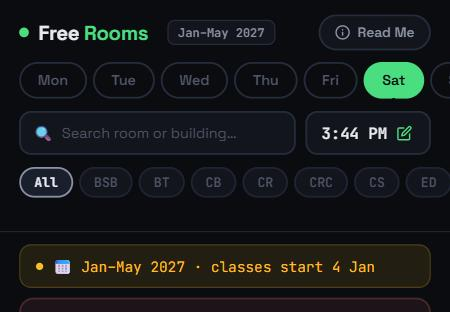
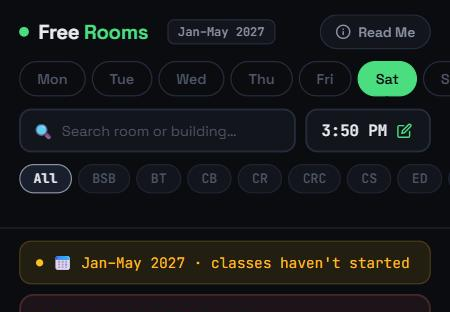
Don't show an exact date in the semester notice
Before the semester starts, the notice now reads "Jan–May 2027 · classes
haven't started" instead of naming the start day. Example dates in the
script usage and docs are replaced with YYYY-MM-DD placeholders.

diff --git a/index.html b/index.html
@@ -1839,8 +1839,7 @@
       const today = `${n.getFullYear()}-${String(n.getMonth() + 1).padStart(2, '0')}-${String(n.getDate()).padStart(2, '0')}`;
       let txt = '';
       if (today < SEMESTER.starts) {
-        const d = new Date(SEMESTER.starts + 'T00:00').toLocaleDateString('en-GB', { day: 'numeric', month: 'short' });
-        txt = `📅 ${SEMESTER.name} · classes start ${d}`;
+        txt = `📅 ${SEMESTER.name} · classes haven't started`;
       } else if (today > SEMESTER.ends) {
         txt = `⚠ ${SEMESTER.name} is over · may be wrong`;
       }

diff --git a/scripts/build_timetable.py b/scripts/build_timetable.py
@@ -2,7 +2,7 @@
 
 Usage (from the repo root):
     python scripts/build_timetable.py "Downloads/SlotWise_SubjectWise List__2026-11-21.xlsx" \
-        --semester "Jan–May 2027" [--starts 2027-01-04 --ends 2027-05-07]
+        --semester "Jan–May 2027" [--starts YYYY-MM-DD --ends YYYY-MM-DD]
 
 --semester is the name shown in the app. With --starts/--ends the app also
 warns when today is outside the semester. --fill-from (below) is optional.

diff --git a/docs/jan-may-2027/design.md b/docs/jan-may-2027/design.md
@@ -11,7 +11,7 @@ New command-line options:
 
 ```
 python scripts/build_timetable.py "Downloads/SlotWise_SubjectWise List__2026-11-21.xlsx" \
-    --semester "Jan–May 2027" --starts 2027-01-02 --ends 2027-05-07
+    --semester "Jan–May 2027" --starts YYYY-MM-DD --ends YYYY-MM-DD
 ```
 
 (The dates are placeholders until you confirm the academic calendar, spec Q2.)
@@ -20,7 +20,7 @@ They're stored at the top of `timetable.json`:
 
 ```json
 {
-  "semester": {"name": "Jan–May 2027", "starts": "2027-01-02", "ends": "2027-05-07"},
+  "semester": {"name": "Jan–May 2027", "starts": "YYYY-MM-DD", "ends": "YYYY-MM-DD"},
   "buildings": [...],
   "days": {...}
 }
@@ -71,7 +71,7 @@ They're stored at the top of `timetable.json`:
 
 | When | Text |
 |---|---|
-| Before `starts` | `📅 Jan–May 2027 · classes start 4 Jan` |
+| Before `starts` | `📅 Jan–May 2027 · classes haven't started` |
 | After `ends` | `⚠ Jan–May 2027 is over · may be wrong` |
 | During the semester | *(hidden)* |
 
@@ -91,4 +91,4 @@ One line is added: *"Rooms are based on the **Jan–May 2027** course list."* Th
 ## 3. Release
 1. Build and open the PR now, so it can be reviewed.
 2. **Merge after the Jul–Nov semester's last class day** (spec R3.1). Slate, Vercel and GitHub Pages deploy automatically on merge.
-3. Between the merge and the start date, students see the "classes start" notice.
+3. Between the merge and the start date, students see the "classes haven't started" notice. The notice never shows an exact date.

diff --git a/docs/jan-may-2027/spec.md b/docs/jan-may-2027/spec.md
@@ -47,7 +47,7 @@ Expected result: about **125 rooms** (132 named, minus the 7 in R1.3), before de
 ### R2. Semester label
 - R2.1 The page shows the semester name (for example "Jan–May 2027") at all times.
 - R2.2 **Outside the semester dates**, an amber notice says the timetable may not match current classes:
-  - Before the start: "Timetable for Jan–May 2027 · classes start 2 Jan".
+  - Before the start: "Jan–May 2027 · classes haven't started" (no exact date is shown).
   - After the end: "Jan–May 2027 timetable has ended · rooms may be wrong".
 - R2.3 The Read Me says which semester the data is for.
 - R2.4 It works at 375px phone width with no overlap or horizontal scroll, in the existing dark theme.
